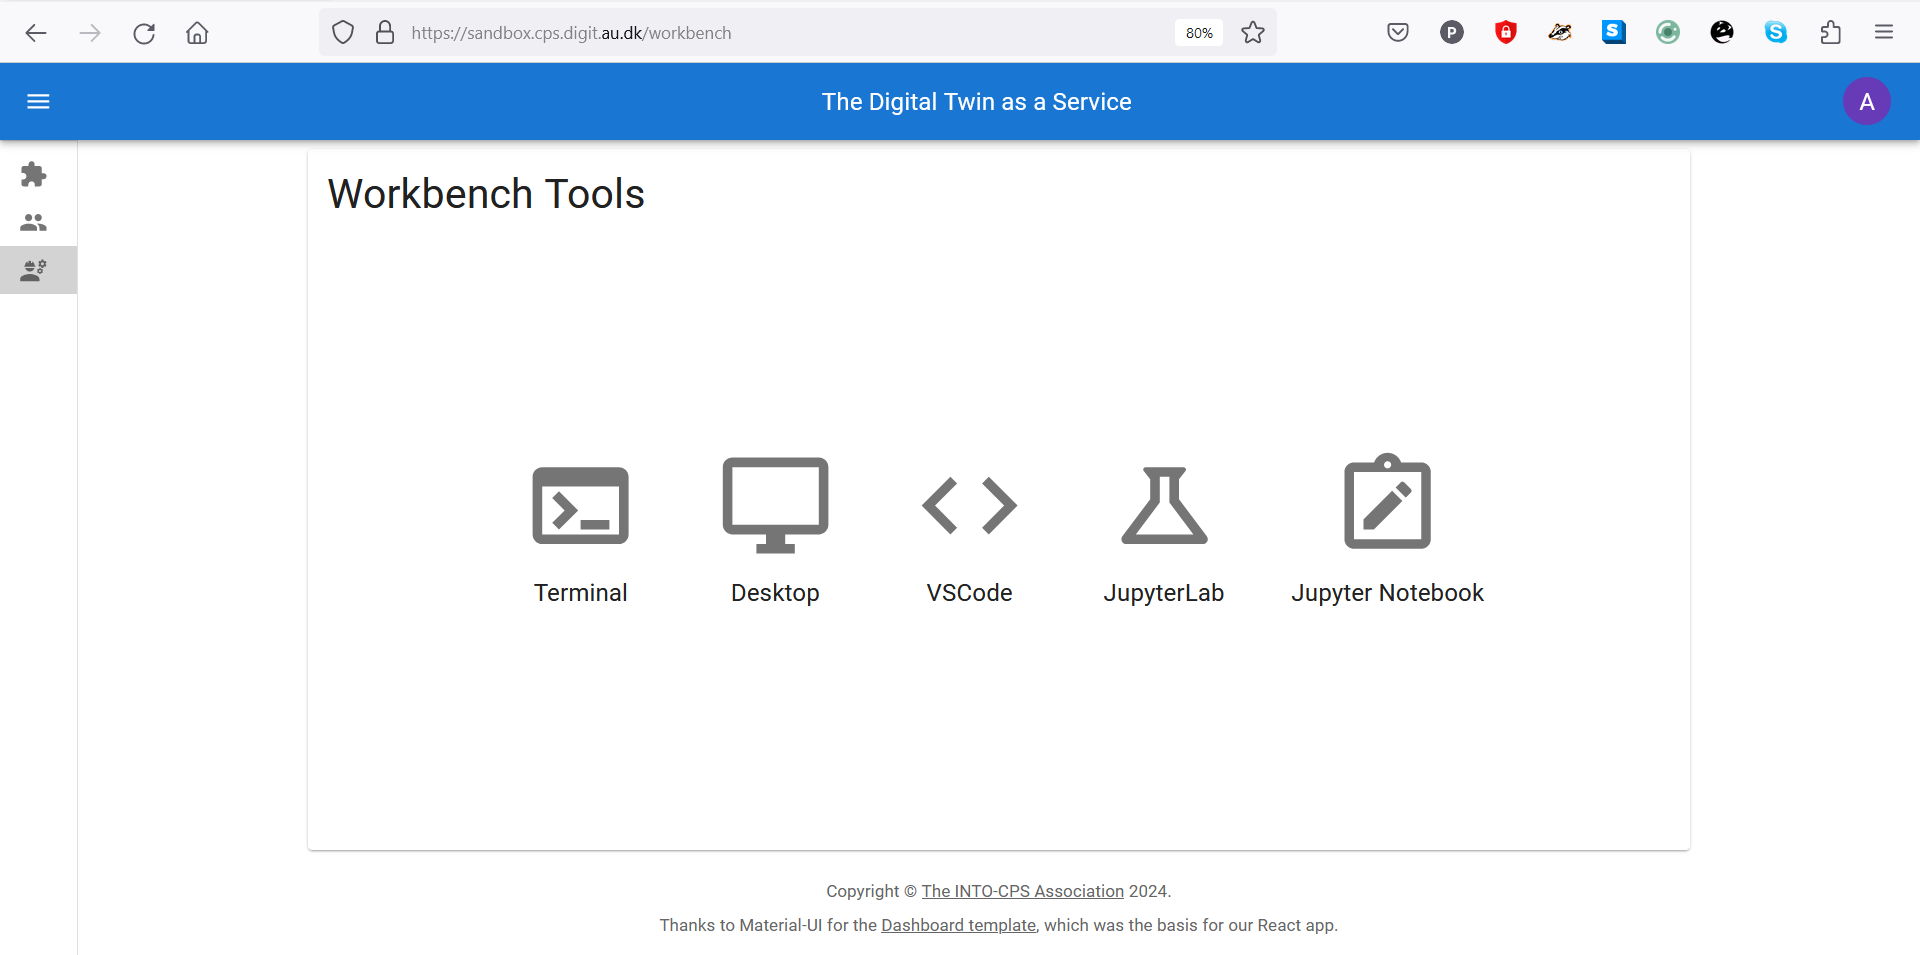
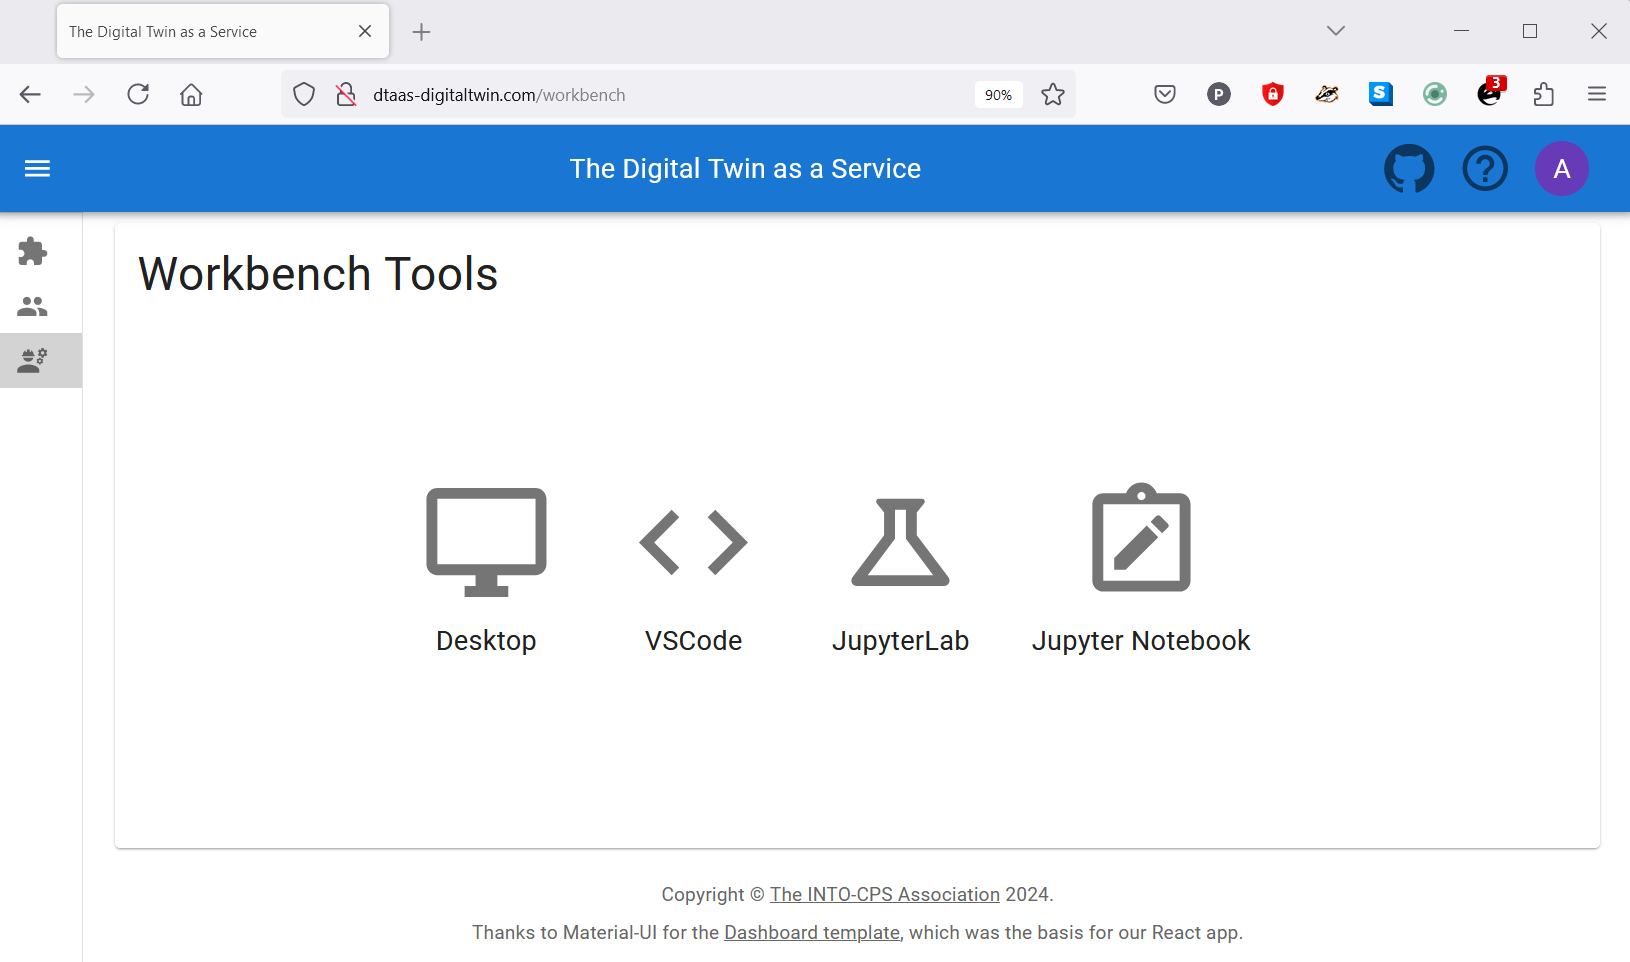
updates user website pages

diff --git a/docs/developer/testing/intro.md b/docs/developer/testing/intro.md
@@ -121,9 +121,11 @@ in future to implement feature tests.
 
 ## References
 
-Justin Searls and Kevin Buchanan,
-[Contributing Tests wiki](https://github.com/testdouble/contributing-tests/wiki).
-This wiki has goog explanation of
-[TDD](https://github.com/testdouble/contributing-tests/wiki/Test-Driven-Development)
-and
-[test doubles](https://github.com/testdouble/contributing-tests/wiki/Test-Double).
+1. Arthur Hicken,
+   [Shift left approach to software testing](https://www.stickyminds.com/article/shift-left-approach-software-testing)
+1. Justin Searls and Kevin Buchanan,
+   [Contributing Tests wiki](https://github.com/testdouble/contributing-tests/wiki).
+1. This wiki has good explanation of
+   [TDD](https://github.com/testdouble/contributing-tests/wiki/Test-Driven-Development)
+   and
+   [test doubles](https://github.com/testdouble/contributing-tests/wiki/Test-Double).

diff --git a/docs/admin/overview.md b/docs/admin/overview.md
@@ -6,7 +6,16 @@ The goal is to install and administer the DTaaS application for users.
 
 The DTaaS can be installed in different ways.
 Each version serves a different purpose.
-Follow the installation that fits your usecase.
+
+<!-- markdownlint-disable MD046 -->
+<!-- prettier-ignore -->
+!!! tip "Easy Setup on Localhost"
+
+    The [localhost](localhost.md) installation is easy for
+    first time users. Please give it a try.
+<!-- markdownlint-enable MD046 -->
+
+Otherwise, use the installation setup that fits your needs.
 
 | Installation Setup | Purpose |
 |:-----|:-----|

diff --git a/docs/user/website/index.md b/docs/user/website/index.md
@@ -220,12 +220,10 @@ in new browser are:
 
 ![Workbench Tools](workbench_tools.png)
 
-!!! Bug
-    The Terminal hyperlink does not always work reliably.
+!!! tip "Terminal"
+    The Terminal hyperlink does not exist on workbench page.
     If you want terminal. Please use the tools dropdown
     in the Jupyter Notebook.
-    The Terminal hyperlink does not always work reliably. If you want
-    terminal, please use the tools dropdown in the Jupyter Notebook.
     ![Open terminal in user workspace](../../admin/guides/open_terminal_in_workspace.gif)
 
 ## Finally logout

diff --git a/docs/user/servers/lib/LIB-MS.md b/docs/user/servers/lib/LIB-MS.md
@@ -17,10 +17,9 @@ available in user workspace.
 The lib microservice application provides services at
 two end points:
 
-**GraphQL API Endpoint:** `http://foo.com/lib`.
+**GraphQL API Endpoint:** `http://foo.com/lib`
 
 **HTTP Endpoint:** `http://foo.com/lib/files`
-(need to be `-H http.json` option.).
 
 ### HTTP protocol
 
